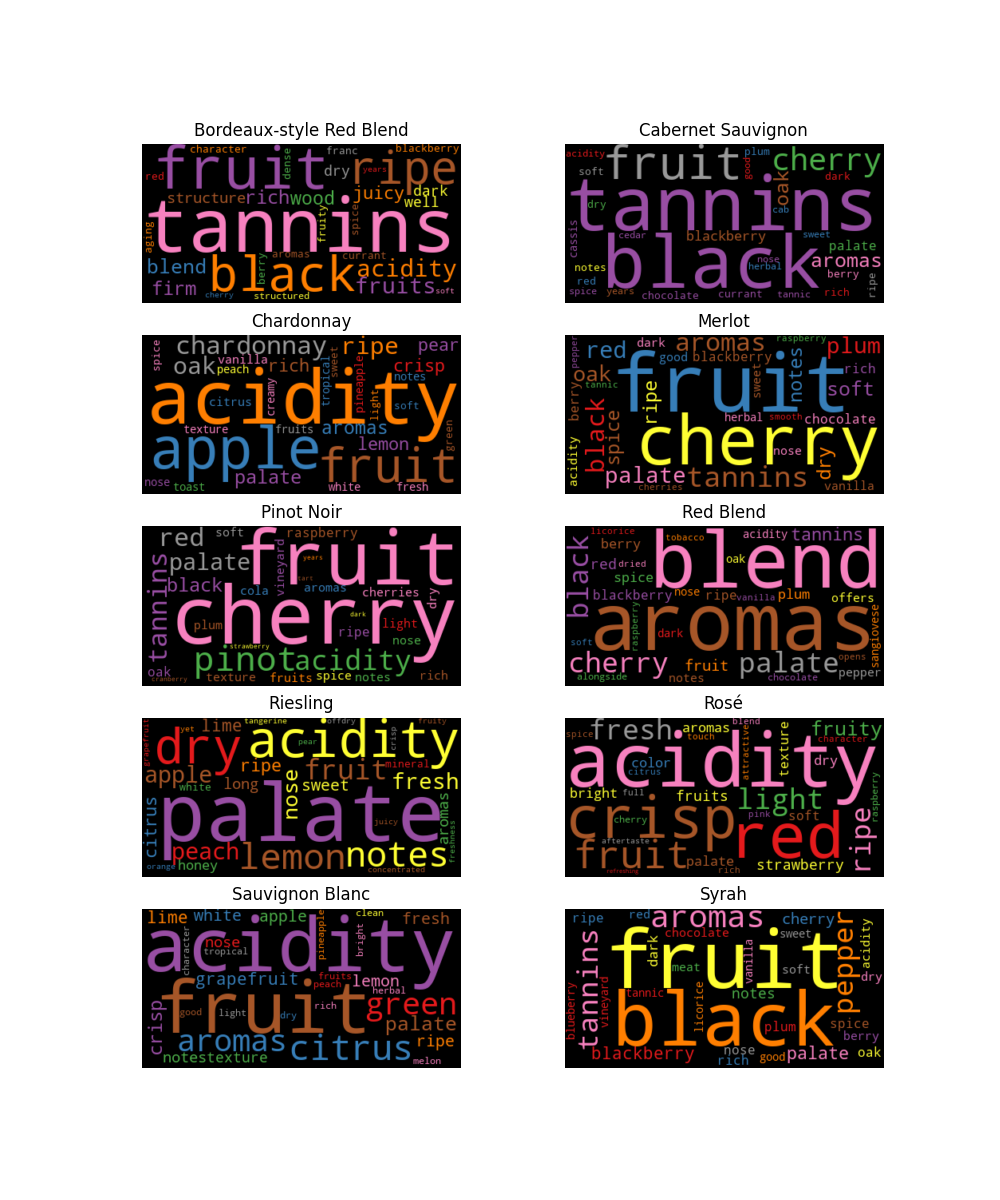
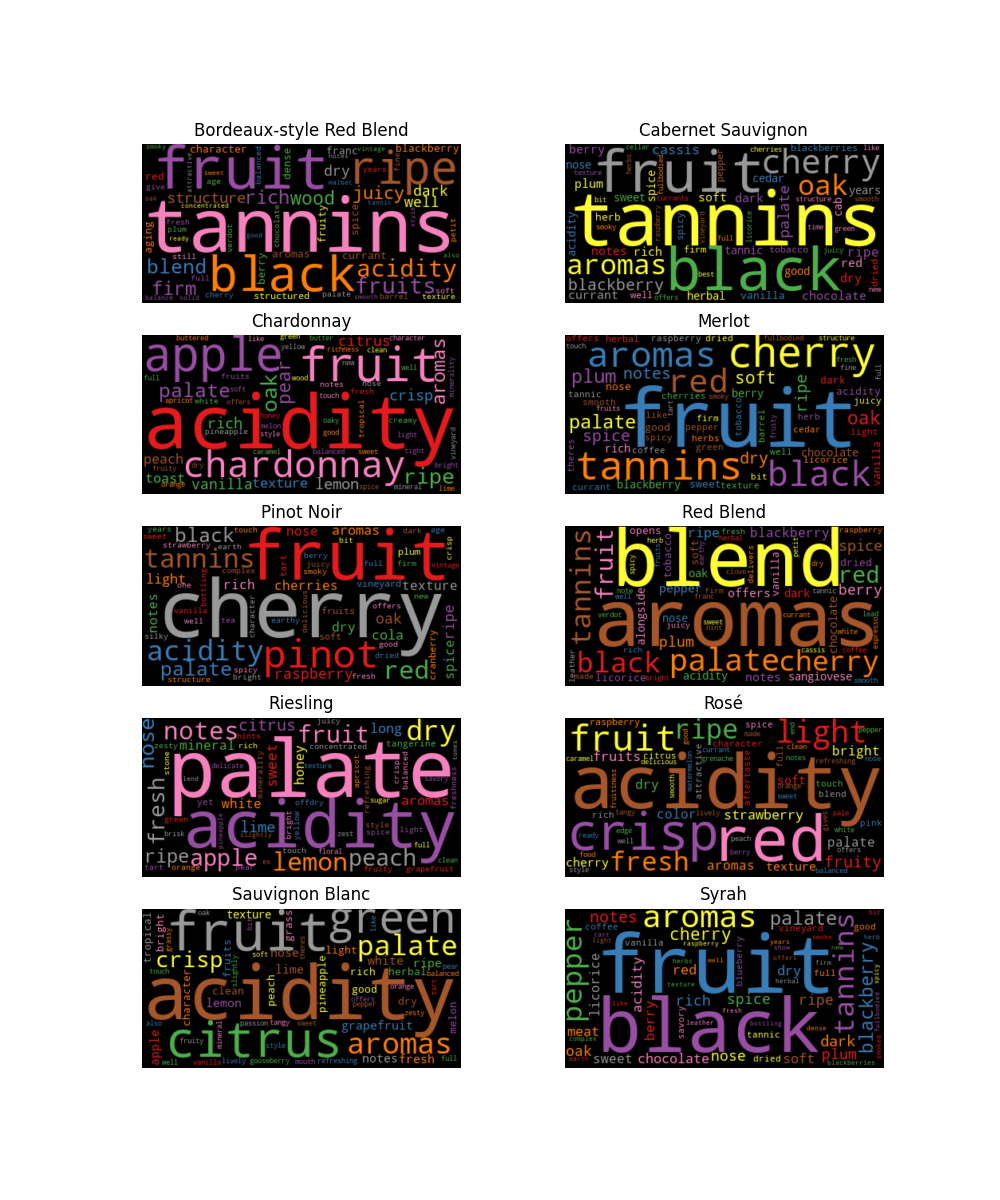
Updated the number of words for visualization

diff --git a/variety_by_reviews/data_exploration.py b/variety_by_reviews/data_exploration.py
@@ -38,7 +38,7 @@ def get_words(data):
 def get_freq_dict(data):
     freq_dict = {}
     for column in data.columns:
-        words = data[column].sort_values(ascending=False).head(30)
+        words = data[column].sort_values(ascending=False).head(60)
         freq_dict[column] = list(zip(words.index, words.values))
     return freq_dict
 
@@ -62,7 +62,7 @@ def plot_wordcloud(data):
 def plot_bar(data):
     print("Creating barplots...", end='')
     sns.set()
-    fig, axes = plt.subplots(nrows=5, ncols=2, figsize=(10,12))
+    fig, axes = plt.subplots(nrows=5, ncols=2, figsize=(16,13))
     plt.subplots_adjust(hspace=0.9)
     keys = list(data.keys())
     k = 0
